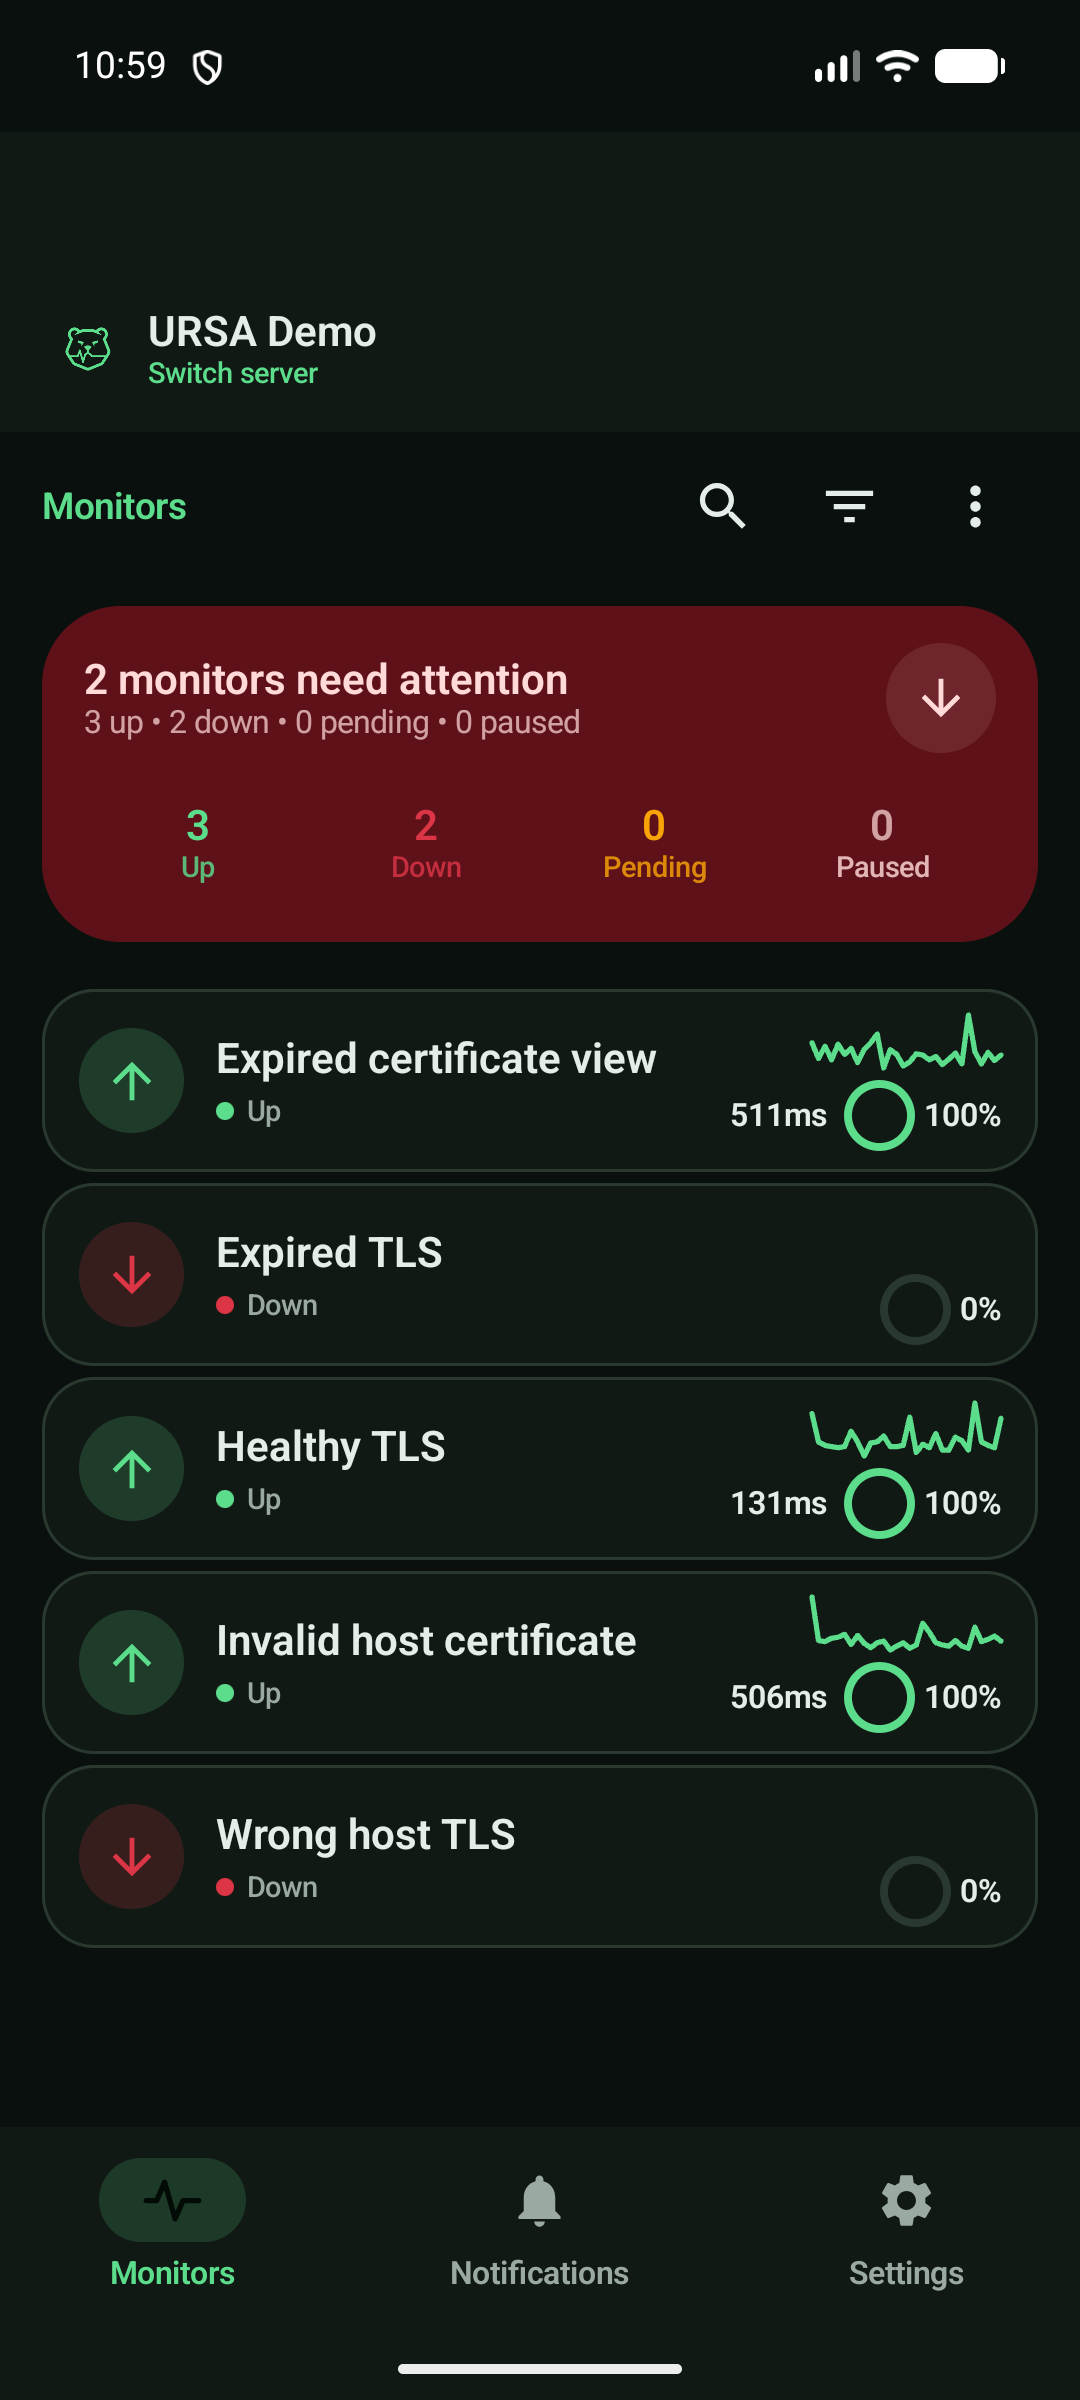
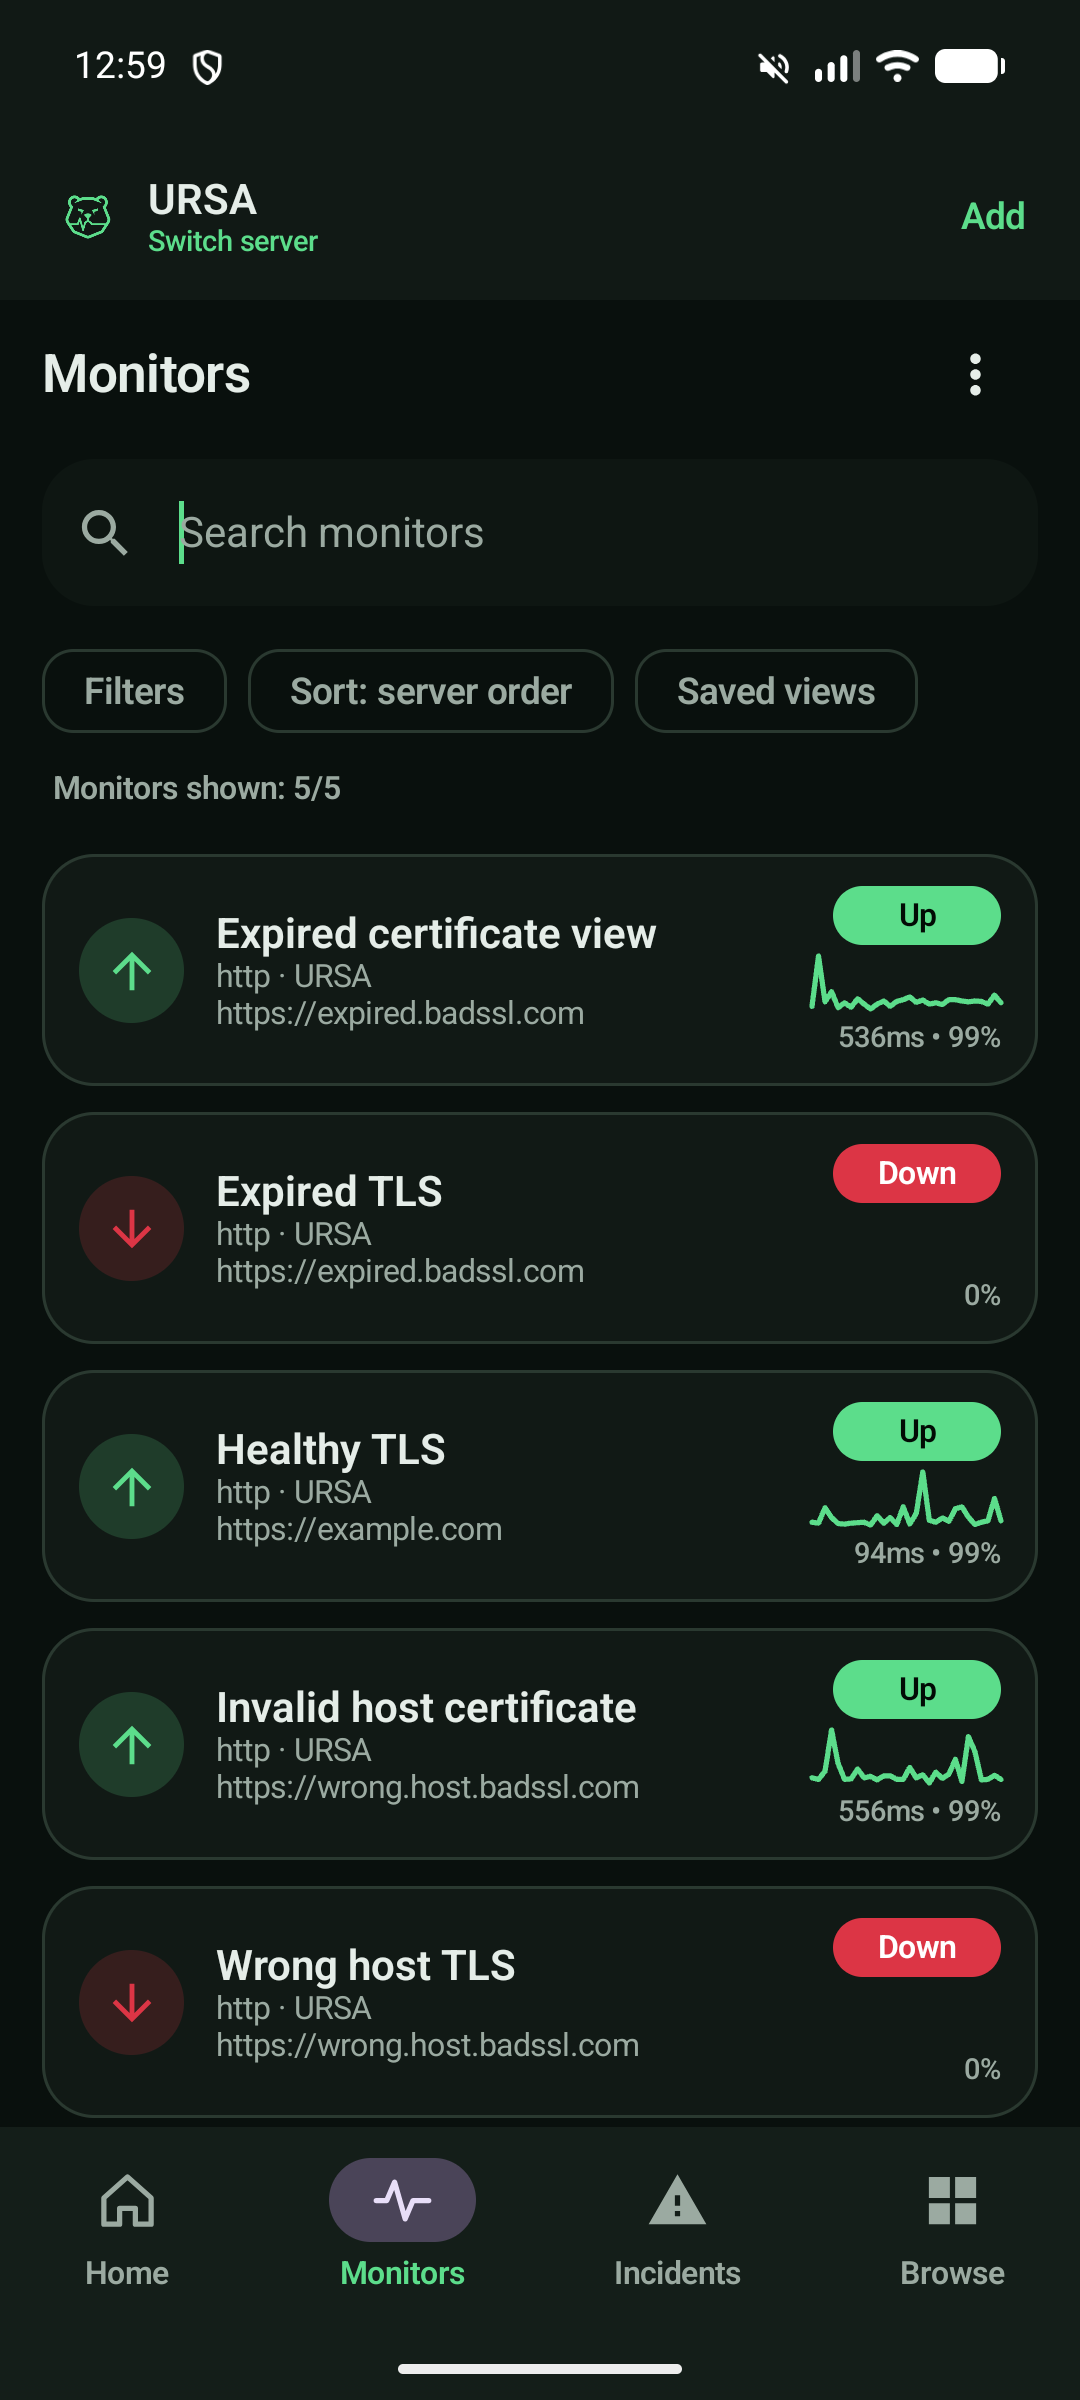
docs: refresh product guides and screenshots

diff --git a/README.md b/README.md
@@ -18,10 +18,10 @@ touch Google or a paid relay.
 no ads, and no tracking - now and forever. If it works for your Kuma setup, it's yours.
 
 <p>
-  <img src="docs/assets/screenshots/02-monitors-dark.png" width="220" alt="Monitor list" />
+  <img src="docs/assets/screenshots/01-home-dark.png" width="220" alt="Fleet Home showing urgent monitors and server health" />
   <img src="docs/assets/screenshots/05-features-menu-dark.png" width="220" alt="Monitor list with the feature menu open" />
-  <img src="docs/assets/screenshots/03-detail-dark.png" width="220" alt="Monitor detail with heartbeat and TLS certificate" />
-  <img src="docs/assets/screenshots/06-advanced-filters-dark.png" width="220" alt="Advanced monitor filters and saved views" />
+  <img src="docs/assets/screenshots/03-detail-dark.png" width="220" alt="Live monitor detail with response time and uptime" />
+  <img src="docs/assets/screenshots/07-browse-dark.png" width="220" alt="Browse catalogue of operations, insights, and server tools" />
 </p>
 
 ## 🐻 Why URSA?
